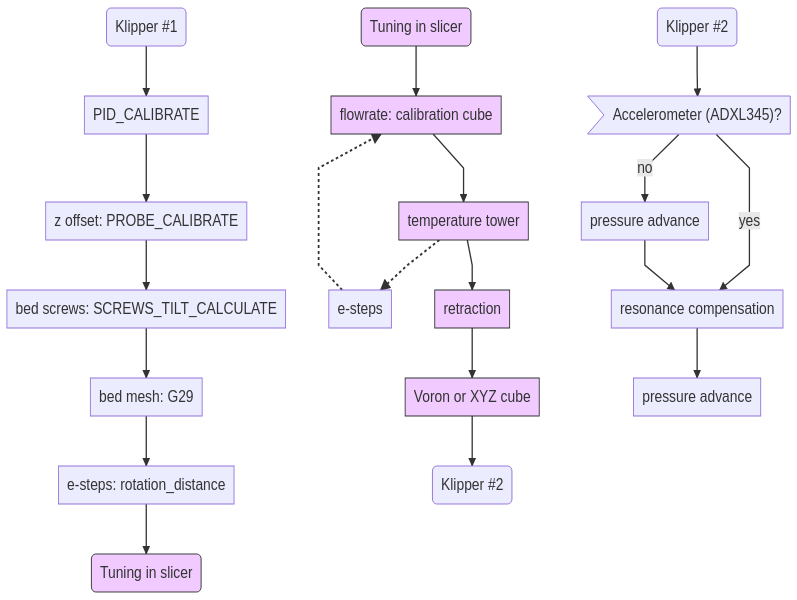
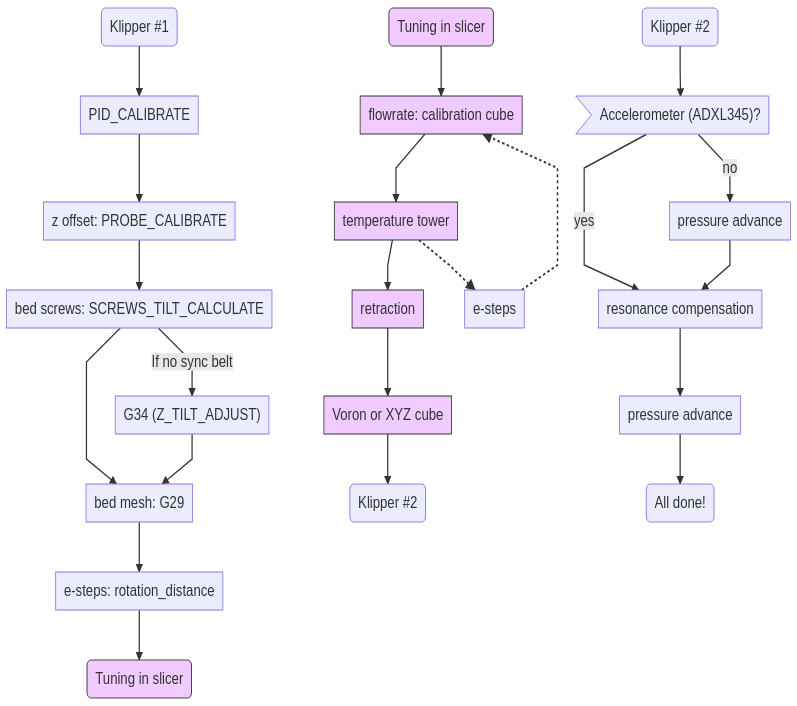
add table

diff --git a/README.md b/README.md
@@ -10,6 +10,8 @@ My notes, tips, and setup for 3d printing
 - [Replacement parts](#replacement-parts)
 - [Misc tips](#misc-tips)
 - [Useful links](#useful-links)
+- [Calibration flowchart](#calibration-flowchart)
+- [Cobra versions](#cobra-versions)
 
 <tiny><i><a href='http://ecotrust-canada.github.io/markdown-toc/'>Table of contents generated with markdown-toc</a></i></tiny>
 
@@ -71,3 +73,16 @@ My notes, tips, and setup for 3d printing
 ## Calibration flowchart
 Flowchart was done using [Mermaid](https://mermaid-js.github.io/mermaid-live-editor/).
 ![](./mermaid.png)
+
+
+## Cobra versions
+
+| Author 	| Link 	| Genius 	| SW 	| Extra rod 	|  	|
+|-	|-	|:-:	|:-:	|:-:	|-	|
+| Maalie 	| https://www.thingiverse.com/thing:4734286 	| x 	|  	| - 	|  	|
+| McAbbe 	| https://www.thingiverse.com/thing:4808040 	|  	| x 	| x 	|  	|
+| papstFish 	| https://www.thingiverse.com/thing:4734390 	|  	| x 	| x 	|  	|
+| pseudo6626 	| https://www.thingiverse.com/thing:4725503 	|  	| x 	| - 	|  	|
+| 3DChanh 	| https://www.thingiverse.com/thing:4375609 	|  	| x 	|  	|  	|
+|  	|  	|  	|  	|  	|  	|
+|  	|  	|  	|  	|  	|  	|

diff --git a/mermaid.md b/mermaid.md
@@ -3,8 +3,11 @@ graph TB
     Klipper1 --> pid
     pid["PID_CALIBRATE"]
     pid --> A["z offset: PROBE_CALIBRATE"]
+    Ztilt["G34 (Z_TILT_ADJUST)"]
     A --> B["bed screws: SCREWS_TILT_CALCULATE"]
     B --> C["bed mesh: G29"]
+    B -->|"If no sync belt"| Ztilt
+    Ztilt --> C
     Esteps["e-steps: rotation_distance"]
     C --> Esteps
     Esteps --> ST1("Tuning in slicer")
@@ -13,8 +16,8 @@ graph TB
     ST("Tuning in slicer")
     ST --> Flow["flowrate: calibration cube"]
     Flow --> Temp["temperature tower"]
-    Temp -.-> Estep2["e-steps"] -.-> Flow
     Temp --> Retr["retraction"]
+    Temp -.-> Estep2["e-steps"] -.-> Flow
     Retr --> Calib["Voron or XYZ cube"]
     Calib --> Klip2("Klipper #2")
         
@@ -25,6 +28,7 @@ graph TB
     Adxl -->|yes| RES["resonance compensation"] 
     Adxl -->|no| PA["pressure advance"] --> RES
     RES --> PA2["pressure advance"]
+    PA2 --> Rdy("All done!")
 
 
     classDef one fill:#f1cbff,stroke:#333,stroke-width:1px;
